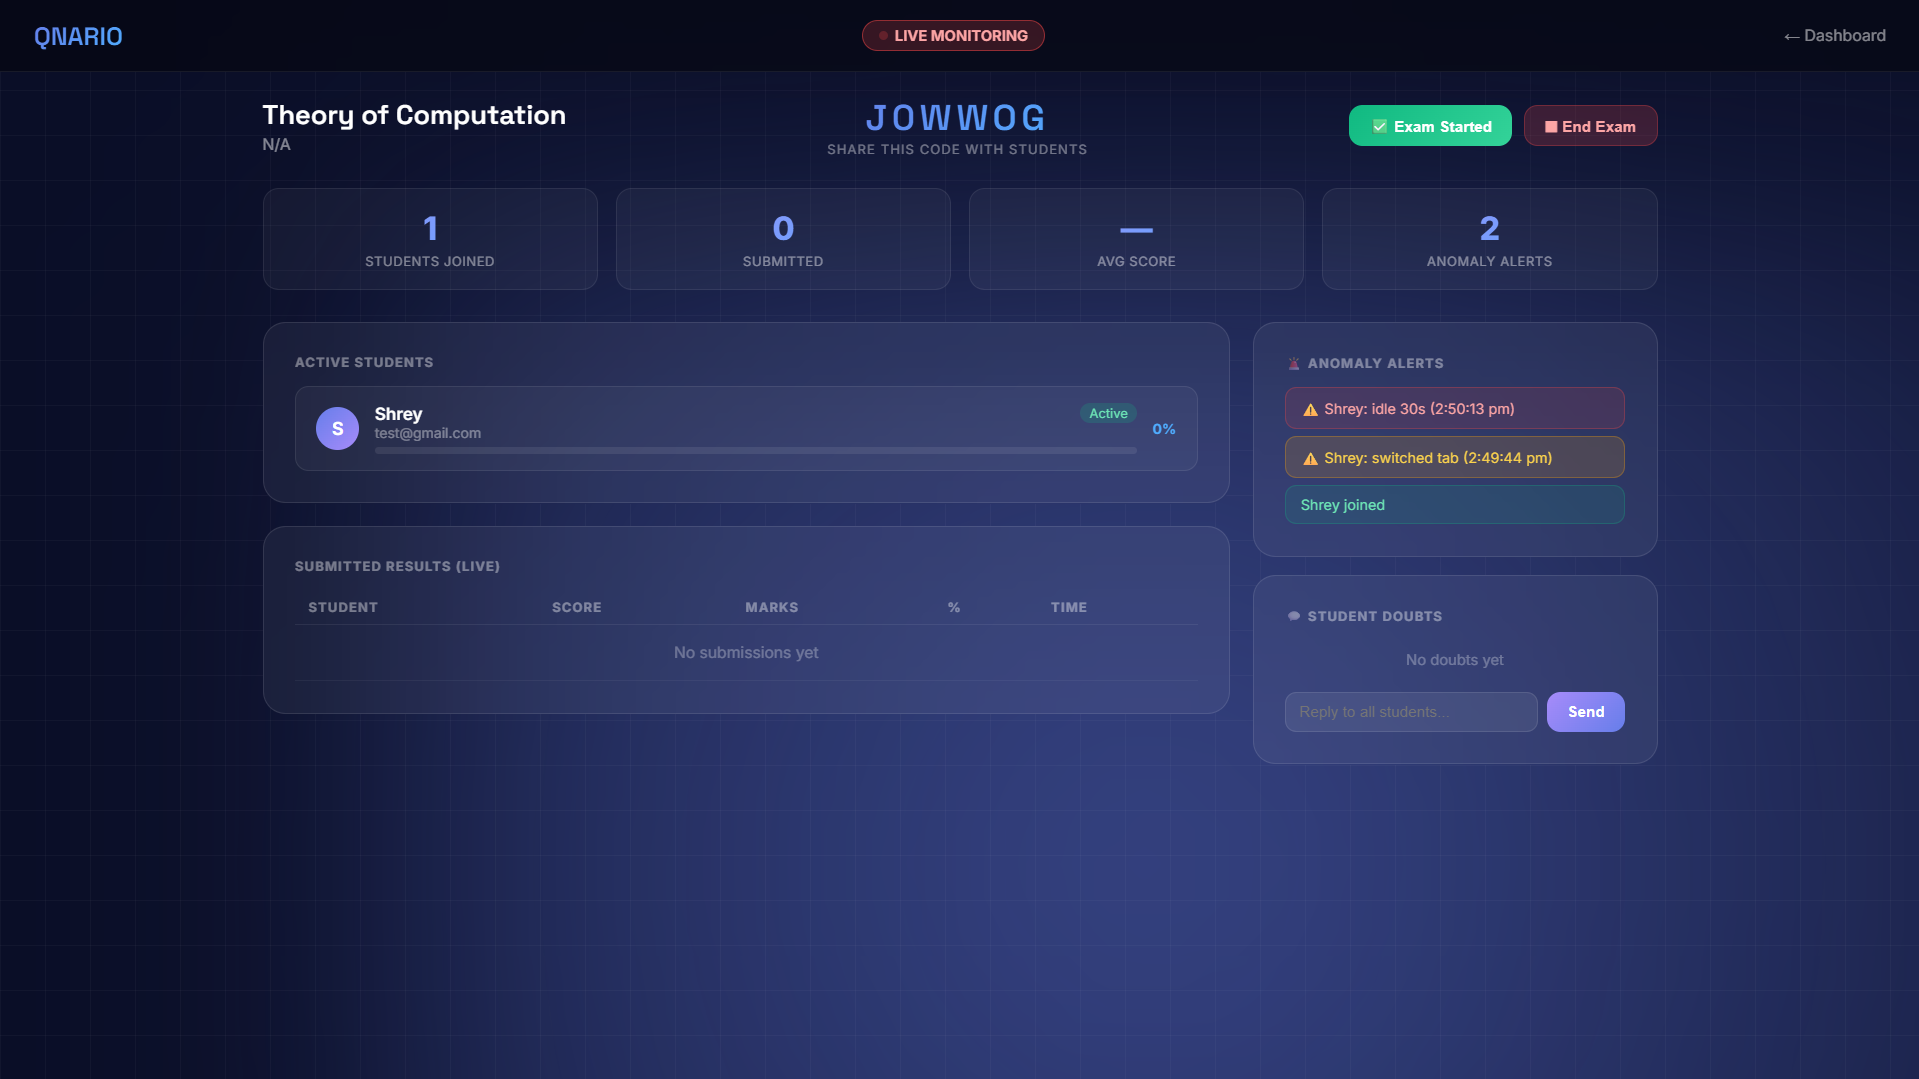
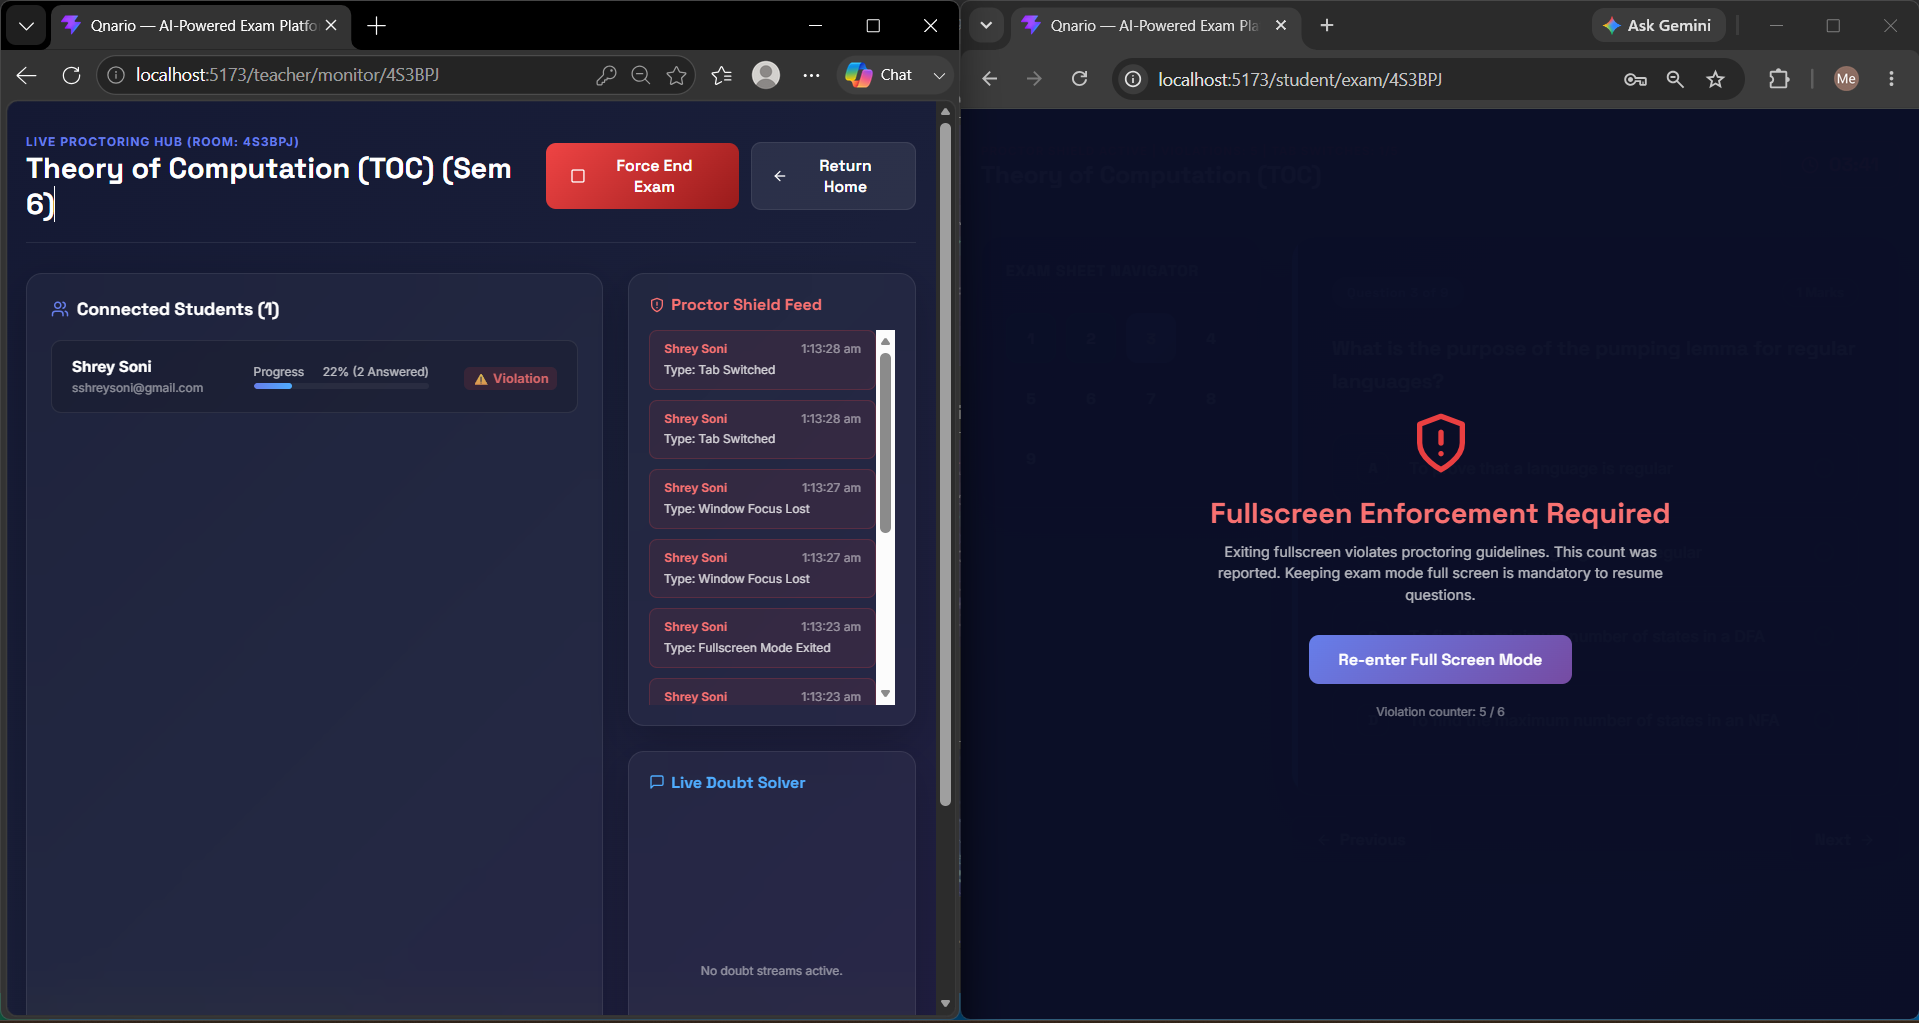
feat: fix timer sync, spinner animation, and syllabus unit name accuracy - Fixed NaN:NaN countdown timer on LiveMonitor (added startTime to server response) - Fixed handleStartExam race condition (set timeLeft before emitting socket event) - Added formatTime NaN guard - returns 00:00 as fallback - A

diff --git a/client/src/pages/SyllabusUpload.jsx b/client/src/pages/SyllabusUpload.jsx
@@ -369,25 +369,95 @@ const SyllabusUpload = () => {
                 </div>
             )}
 
-            {/* ACTIVE AI RUNNING PLOT FOR SCANNING */}
+            {/* ── AI SCANNING LOADER ──────────────────── */}
             {isScanning && (
-                <div style={{ display: 'flex', flexDirection: 'column', alignItems: 'center', justifyContent: 'center', minHeight: '50vh', textAlign: 'center' }}>
-                    <div style={{ width: '60px', height: '60px', border: '4px solid rgba(102, 126, 234, 0.1)', borderTop: '4px solid #667eea', borderRadius: '50%', animation: 'spin 1s linear infinite', marginBottom: '20px' }} />
-                    <h3 style={{ fontFamily: 'Space Grotesk', fontSize: '1.4rem', fontWeight: 'bold' }}>AI is Scanning Your Syllabus...</h3>
-                    <p style={{ opacity: 0.6, fontSize: '0.9rem', maxWidth: '400px', margin: '8px auto 0', lineHeight: '1.5' }}>
-                        Gemini is parsing the syllabus file, extracting units, chapters, and topics. This can take up to 20 seconds.
+                <div style={{ display: 'flex', flexDirection: 'column', alignItems: 'center', justifyContent: 'center', minHeight: '60vh', textAlign: 'center', gap: '0' }}>
+                    {/* Multi-ring spinner */}
+                    <div style={{ position: 'relative', width: '90px', height: '90px', marginBottom: '28px' }}>
+                        {/* Outer ring */}
+                        <div style={{
+                            position: 'absolute', inset: 0,
+                            border: '3px solid rgba(102, 126, 234, 0.12)',
+                            borderTop: '3px solid #667eea',
+                            borderRadius: '50%',
+                            animation: 'spin 1.1s linear infinite'
+                        }} />
+                        {/* Mid ring */}
+                        <div style={{
+                            position: 'absolute', inset: '12px',
+                            border: '3px solid rgba(79, 172, 254, 0.1)',
+                            borderTop: '3px solid #4facfe',
+                            borderBottom: '3px solid rgba(79, 172, 254, 0.4)',
+                            borderRadius: '50%',
+                            animation: 'spin 0.8s linear infinite reverse'
+                        }} />
+                        {/* Inner dot */}
+                        <div style={{
+                            position: 'absolute', inset: '30px',
+                            background: 'radial-gradient(circle, #667eea 0%, transparent 70%)',
+                            borderRadius: '50%',
+                            animation: 'pulse 1.5s ease-in-out infinite'
+                        }} />
+                    </div>
+                    <h3 style={{ fontFamily: 'Space Grotesk', fontSize: '1.5rem', fontWeight: '800', marginBottom: '10px', background: 'linear-gradient(135deg, #667eea, #4facfe)', WebkitBackgroundClip: 'text', WebkitTextFillColor: 'transparent' }}>
+                        AI is Scanning Your Syllabus...
+                    </h3>
+                    <p style={{ opacity: 0.6, fontSize: '0.88rem', maxWidth: '380px', lineHeight: '1.6', marginBottom: '28px' }}>
+                        Gemini is parsing the file, extracting exact unit names, chapters, and topics. This can take up to 20 seconds.
                     </p>
+                    {/* Step indicators */}
+                    <div style={{ display: 'flex', gap: '20px', alignItems: 'center' }}>
+                        {['Reading File', 'Parsing Units', 'Extracting Topics'].map((step, i) => (
+                            <div key={i} style={{ display: 'flex', alignItems: 'center', gap: '6px', opacity: 0.7, fontSize: '0.78rem' }}>
+                                <div style={{ width: '8px', height: '8px', borderRadius: '50%', background: '#667eea', animation: `pulse ${1 + i * 0.3}s ease-in-out infinite` }} />
+                                {step}
+                            </div>
+                        ))}
+                    </div>
                 </div>
             )}
 
-            {/* ACTIVE AI RUNNING PLOT FOR QUESTION GENERATION */}
+            {/* ── QUESTION GENERATION LOADER ────────── */}
             {isGenerating && (
-                <div style={{ display: 'flex', flexDirection: 'column', alignItems: 'center', justifyContent: 'center', minHeight: '50vh', textAlign: 'center' }}>
-                    <div style={{ width: '60px', height: '60px', border: '4px solid rgba(16, 185, 129, 0.1)', borderTop: '4px solid #10b981', borderRadius: '50%', animation: 'spin 1s linear infinite', marginBottom: '20px' }} />
-                    <h3 style={{ fontFamily: 'Space Grotesk', fontSize: '1.4rem', fontWeight: 'bold', color: '#10b981' }}>Generating Questions via Gemini AI...</h3>
-                    <p style={{ opacity: 0.6, fontSize: '0.9rem', maxWidth: '450px', margin: '8px auto 0', lineHeight: '1.5' }}>
-                        Distributed generator is active, writing standard questions proportional to chosen units. This can take 30–60 seconds.
+                <div style={{ display: 'flex', flexDirection: 'column', alignItems: 'center', justifyContent: 'center', minHeight: '60vh', textAlign: 'center', gap: '0' }}>
+                    {/* Multi-ring spinner — green theme */}
+                    <div style={{ position: 'relative', width: '90px', height: '90px', marginBottom: '28px' }}>
+                        <div style={{
+                            position: 'absolute', inset: 0,
+                            border: '3px solid rgba(16, 185, 129, 0.12)',
+                            borderTop: '3px solid #10b981',
+                            borderRadius: '50%',
+                            animation: 'spin 1.1s linear infinite'
+                        }} />
+                        <div style={{
+                            position: 'absolute', inset: '12px',
+                            border: '3px solid rgba(52, 211, 153, 0.1)',
+                            borderTop: '3px solid #34d399',
+                            borderBottom: '3px solid rgba(52, 211, 153, 0.4)',
+                            borderRadius: '50%',
+                            animation: 'spin 0.8s linear infinite reverse'
+                        }} />
+                        <div style={{
+                            position: 'absolute', inset: '30px',
+                            background: 'radial-gradient(circle, #10b981 0%, transparent 70%)',
+                            borderRadius: '50%',
+                            animation: 'pulse 1.5s ease-in-out infinite'
+                        }} />
+                    </div>
+                    <h3 style={{ fontFamily: 'Space Grotesk', fontSize: '1.5rem', fontWeight: '800', marginBottom: '10px', color: '#10b981' }}>
+                        Generating Questions via Gemini AI...
+                    </h3>
+                    <p style={{ opacity: 0.6, fontSize: '0.88rem', maxWidth: '420px', lineHeight: '1.6', marginBottom: '28px' }}>
+                        Writing questions for each selected topic proportional to your blueprint. This can take 30–60 seconds.
                     </p>
+                    <div style={{ display: 'flex', gap: '20px', alignItems: 'center' }}>
+                        {['Blueprint Applied', 'AI Composing', 'Validating Output'].map((step, i) => (
+                            <div key={i} style={{ display: 'flex', alignItems: 'center', gap: '6px', opacity: 0.7, fontSize: '0.78rem' }}>
+                                <div style={{ width: '8px', height: '8px', borderRadius: '50%', background: '#10b981', animation: `pulse ${1 + i * 0.3}s ease-in-out infinite` }} />
+                                {step}
+                            </div>
+                        ))}
+                    </div>
                 </div>
             )}
 

diff --git a/client/src/pages/LiveMonitor.jsx b/client/src/pages/LiveMonitor.jsx
@@ -245,6 +245,10 @@ const LiveMonitor = () => {
 
     const handleStartExam = () => {
         if (socket) {
+            // Set timeLeft immediately from the known duration so the timer is available
+            // right when examStarted flips to true (avoids NaN race condition)
+            const durationSecs = examDuration * 60 || 60 * 60;
+            setTimeLeft(durationSecs);
             socket.emit('start_exam', { roomCode: code });
             setExamStarted(true);
         }
@@ -286,9 +290,12 @@ const LiveMonitor = () => {
     };
 
     const formatTime = (seconds) => {
-        const h = Math.floor(seconds / 3600);
-        const m = Math.floor((seconds % 3600) / 60);
-        const s = seconds % 60;
+        // Guard against NaN/null/undefined/negative
+        if (!seconds || isNaN(seconds) || seconds < 0) return '00:00';
+        const totalSecs = Math.floor(seconds);
+        const h = Math.floor(totalSecs / 3600);
+        const m = Math.floor((totalSecs % 3600) / 60);
+        const s = totalSecs % 60;
         return `${h > 0 ? h + ':' : ''}${m.toString().padStart(2, '0')}:${s.toString().padStart(2, '0')}`;
     };
 
@@ -392,8 +399,8 @@ const LiveMonitor = () => {
                 </div>
 
                 <div style={{ display: 'flex', alignItems: 'center', gap: '12px' }}>
-                    {/* Countdown Timer — shown when exam is running */}
-                    {examStarted && (
+                    {/* Countdown Timer — shown when exam is running and time > 0 */}
+                    {examStarted && timeLeft > 0 && (
                         <div style={{
                             display: 'flex',
                             alignItems: 'center',
@@ -415,6 +422,24 @@ const LiveMonitor = () => {
                             }}>
                                 {formatTime(timeLeft)}
                             </span>
+                        </div>
+                    )}
+
+                    {/* Time's Up badge when exam timer expires */}
+                    {examStarted && timeLeft === 0 && (
+                        <div style={{
+                            display: 'flex',
+                            alignItems: 'center',
+                            gap: '8px',
+                            background: 'rgba(239, 68, 68, 0.15)',
+                            border: '1px solid rgba(239, 68, 68, 0.5)',
+                            padding: '10px 20px',
+                            borderRadius: '10px',
+                            color: '#f87171',
+                            fontWeight: 'bold'
+                        }}>
+                            <Clock size={18} />
+                            <span style={{ fontFamily: 'Space Grotesk', fontSize: '1.1rem', fontWeight: '800' }}>Time's Up!</span>
                         </div>
                     )}
 

diff --git a/client/src/index.css b/client/src/index.css
@@ -588,3 +588,37 @@ body {
 .option-row-frame-selected .option-custom-bullet-dot {
     transform: scale(1);
 }
+
+/* ======================================
+   MISSING KEYFRAME ANIMATIONS
+   Referenced by: SyllabusUpload, ExamRoom, LiveMonitor
+   ====================================== */
+
+/* Spinner — used by isScanning and isGenerating loaders */
+@keyframes spin {
+    0%   { transform: rotate(0deg); }
+    100% { transform: rotate(360deg); }
+}
+
+/* Pulse — used by timer urgency, locked badge, warning states */
+@keyframes pulse {
+    0%, 100% { opacity: 1; transform: scale(1); }
+    50%       { opacity: 0.65; transform: scale(1.04); }
+}
+
+/* Shake — used by violation warning banner in ExamRoom */
+@keyframes shake {
+    0%, 100% { transform: translateX(0); }
+    15%       { transform: translateX(-6px); }
+    30%       { transform: translateX(6px); }
+    45%       { transform: translateX(-4px); }
+    60%       { transform: translateX(4px); }
+    75%       { transform: translateX(-2px); }
+    90%       { transform: translateX(2px); }
+}
+
+/* Glow pulse — used by live status dots */
+@keyframes glowPulse {
+    0%, 100% { box-shadow: 0 0 4px 1px rgba(16, 185, 129, 0.5); }
+    50%       { box-shadow: 0 0 10px 4px rgba(16, 185, 129, 0.9); }
+}

diff --git a/ai-service/services/gemini_service.py b/ai-service/services/gemini_service.py
@@ -261,26 +261,45 @@ class GeminiQuestionGenerator:
         return {"success": True, "questions": questions}
 
     def extract_syllabus_topics(self, text_content, subject_hint):
-        prompt = f"""Extract all units, chapters and topics from this syllabus text.
-Subject hint: {subject_hint or 'Auto-detect'}
-Return only JSON in this format:
+        prompt = f"""You are a strict syllabus parser. Your ONLY job is to extract structure from the given academic syllabus document.
+
+CRITICAL RULES — You MUST follow these exactly:
+1. Use the EXACT unit names as written in the document. DO NOT rename, paraphrase, or reword them.
+   - If the syllabus says "UNIT-I AUTOMATA FUNDAMENTALS", the unitName MUST be "UNIT-I: AUTOMATA FUNDAMENTALS"
+   - If the syllabus says "UNIT-II REGULAR EXPRESSIONS AND LANGUAGES", the unitName MUST be "UNIT-II: REGULAR EXPRESSIONS AND LANGUAGES"
+   - NEVER substitute your own names like "Introduction to Theory of Computation" or "Finite Automata"
+2. Keep the unitNumber as the ordinal (1 for UNIT-I, 2 for UNIT-II, etc.)
+3. For chapters inside each unit: if the syllabus has sub-headings, use them exactly. If not, create 1-2 chapters named after the main topic groups in that unit's content.
+4. For topics: extract the exact technical terms listed in the unit content (e.g., "Deterministic Finite Automata", "Pushdown Automata", "Pumping Lemma").
+5. DO NOT merge units together. Each UNIT in the syllabus must be a separate entry.
+6. DO NOT create units that are not in the syllabus.
+
+Subject: {subject_hint or 'Auto-detect from document'}
+
+Return ONLY valid JSON in this exact format, nothing else:
 {{
-  "subject": "Name",
+  "subject": "Exact subject name from the document",
   "units": [
     {{
       "unitNumber": 1,
-      "unitName": "Name",
+      "unitName": "UNIT-I: EXACT NAME FROM DOCUMENT",
       "chapters": [
-        {{ "chapterName": "Name", "topics": ["Topic 1", "Topic 2"] }}
+        {{
+          "chapterName": "Exact or inferred chapter name",
+          "topics": ["Exact Topic 1", "Exact Topic 2", "Exact Topic 3"]
+        }}
       ]
     }}
   ]
 }}
-Syllabus text:
-{text_content[:15000]}"""
+
+Syllabus document text:
+{text_content[:15000]}
+
+REMINDER: Copy unit names VERBATIM from the document. Do not invent, rename, or merge units."""
         
         logger.info(f"Extracting syllabus from {len(text_content)} chars...")
-        result = self._chat(prompt, max_tokens=3000)
+        result = self._chat(prompt, max_tokens=4000, temperature=0.1)
         
         if result["success"]:
             logger.info("Gemini call successful, parsing response...")
